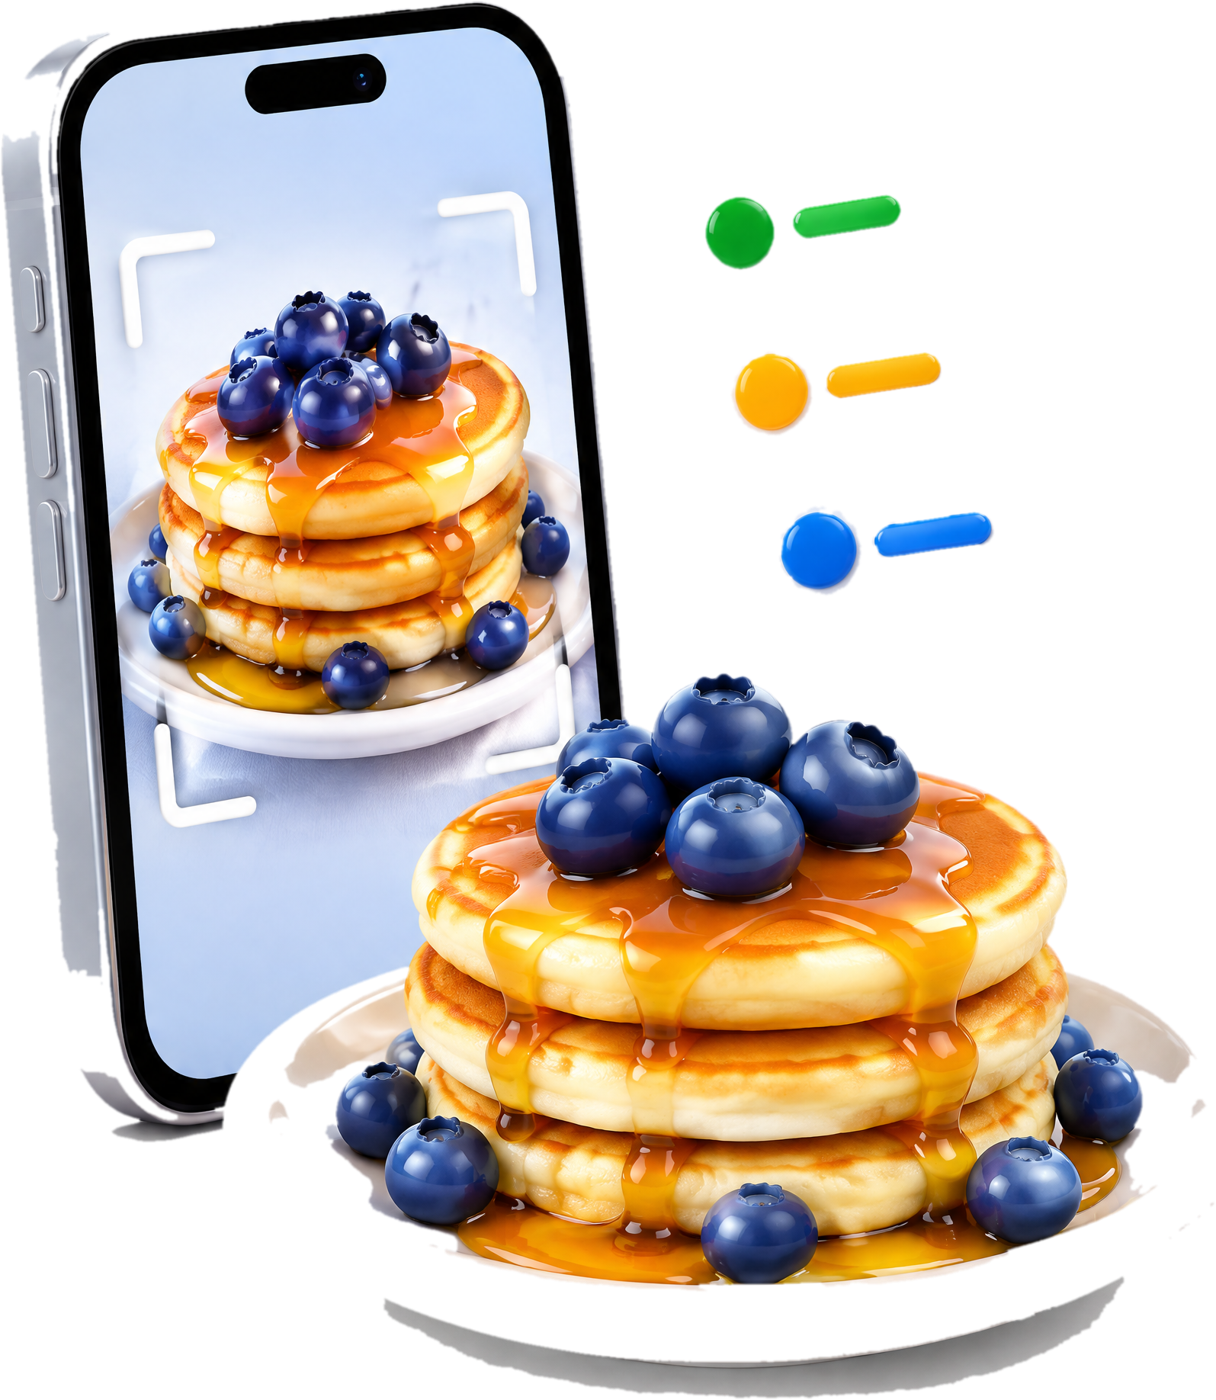
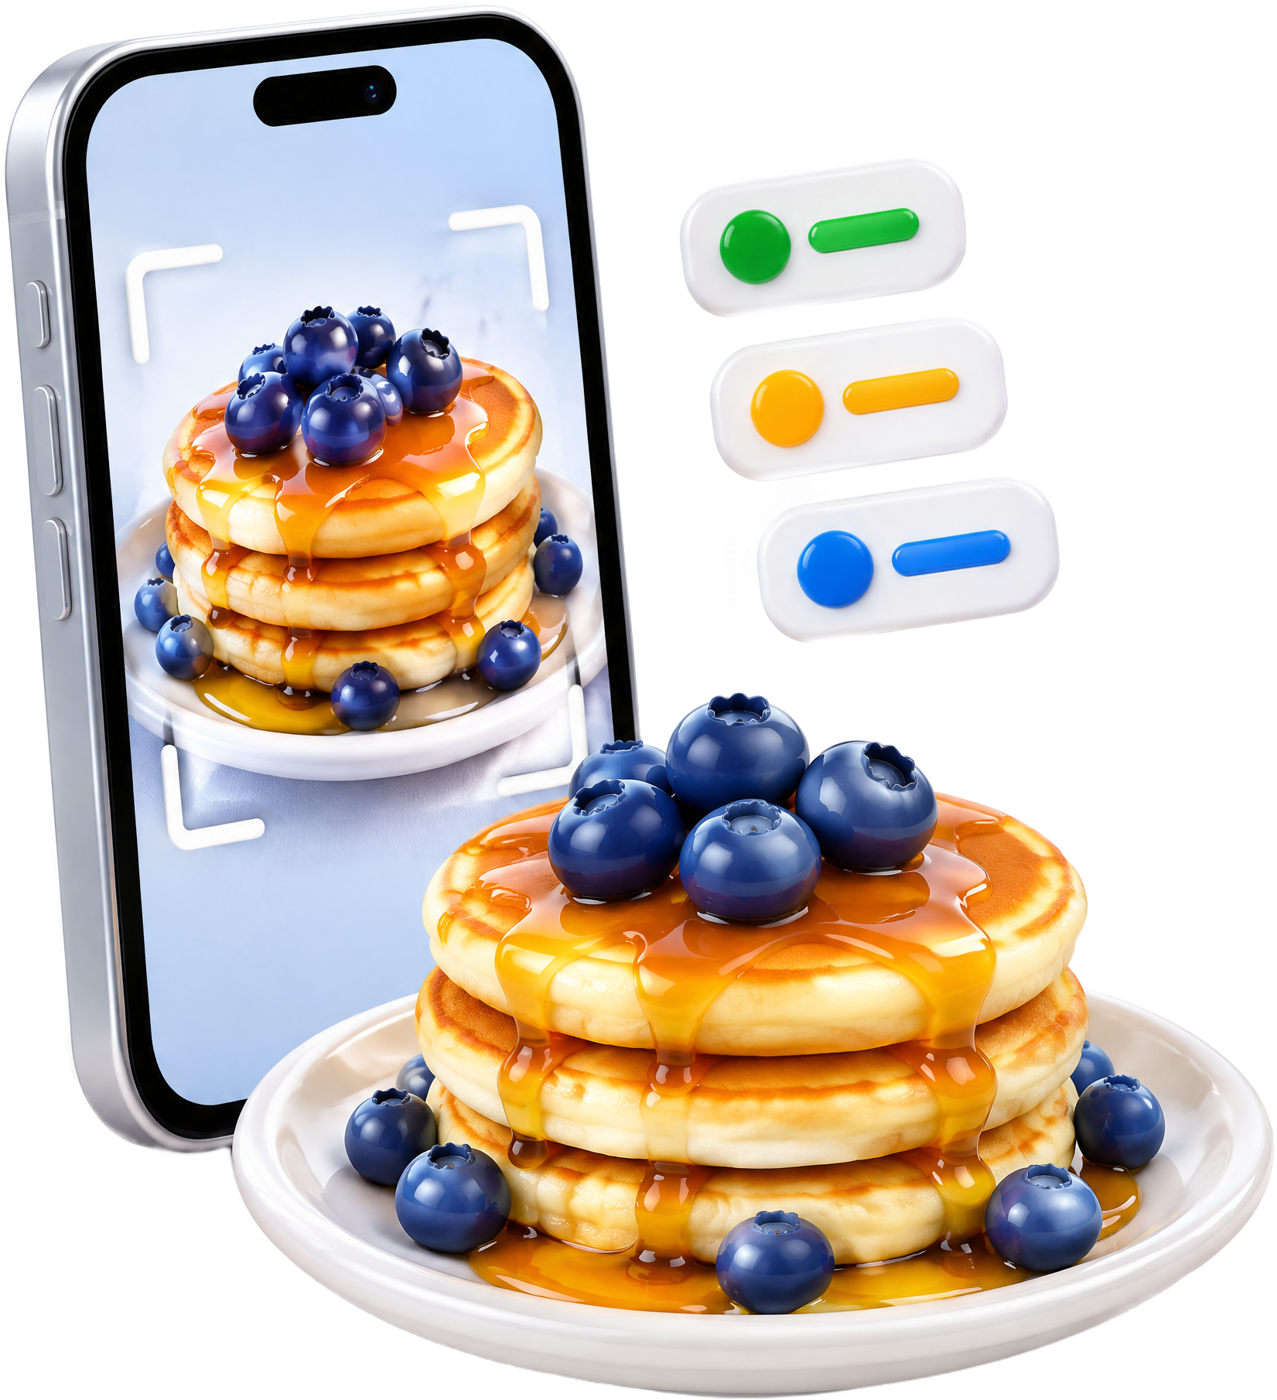
Home: clean hero cutout

diff --git a/home/index.html b/home/index.html
@@ -675,7 +675,7 @@ html[data-mode="dark"] .split-hero .quick,html[data-mode="dark"] .dash,html[data
         <div class="ctas"><a class="btn shine" href="https://mealpic.app/download">Download free<svg class="arr" viewBox="0 0 16 16" width="16" height="16" aria-hidden="true"><path d="M3 8h9M8.5 4.5 12 8l-3.5 3.5" fill="none" stroke="currentColor" stroke-width="2" stroke-linecap="round" stroke-linejoin="round"/></svg></a><a class="btn ghost im" href="sms:+16282988842&body=Hey%20Meal%20Pic!"><img src="../assets/imessage.png" alt="">Start by text</a></div>
         <span class="fine">Free to download. 3-day free trial of Pro.</span>
       </div>
-      <div class="hero-art"><img src="../assets/lab/home_hero_t.png?v=2" alt="A phone scanning a plate of blueberry pancakes" width="1400" height="1230" fetchpriority="high"></div>
+      <div class="hero-art"><img src="../assets/lab/home_hero_t.png?v=3" alt="A phone scanning a plate of blueberry pancakes" width="1400" height="1230" fetchpriority="high"></div>
     </div>
   </div>
 </section>
